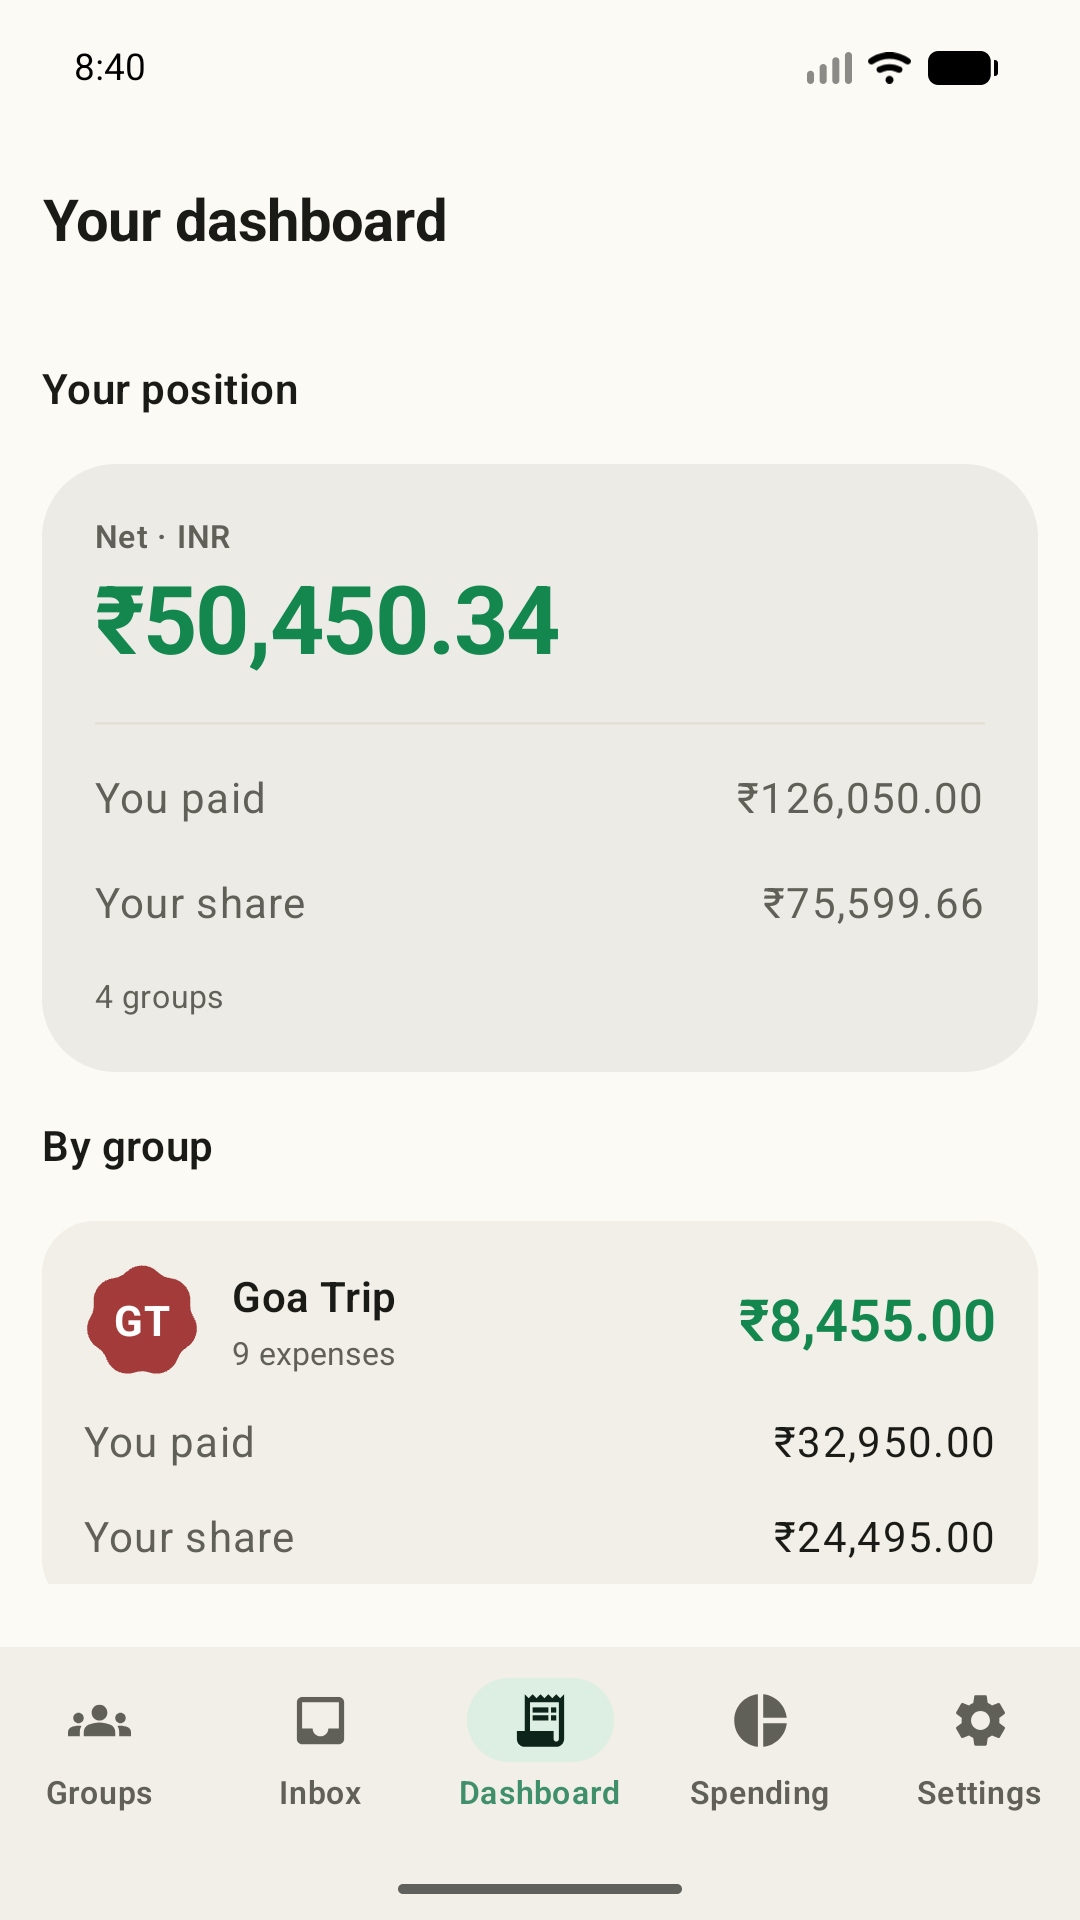
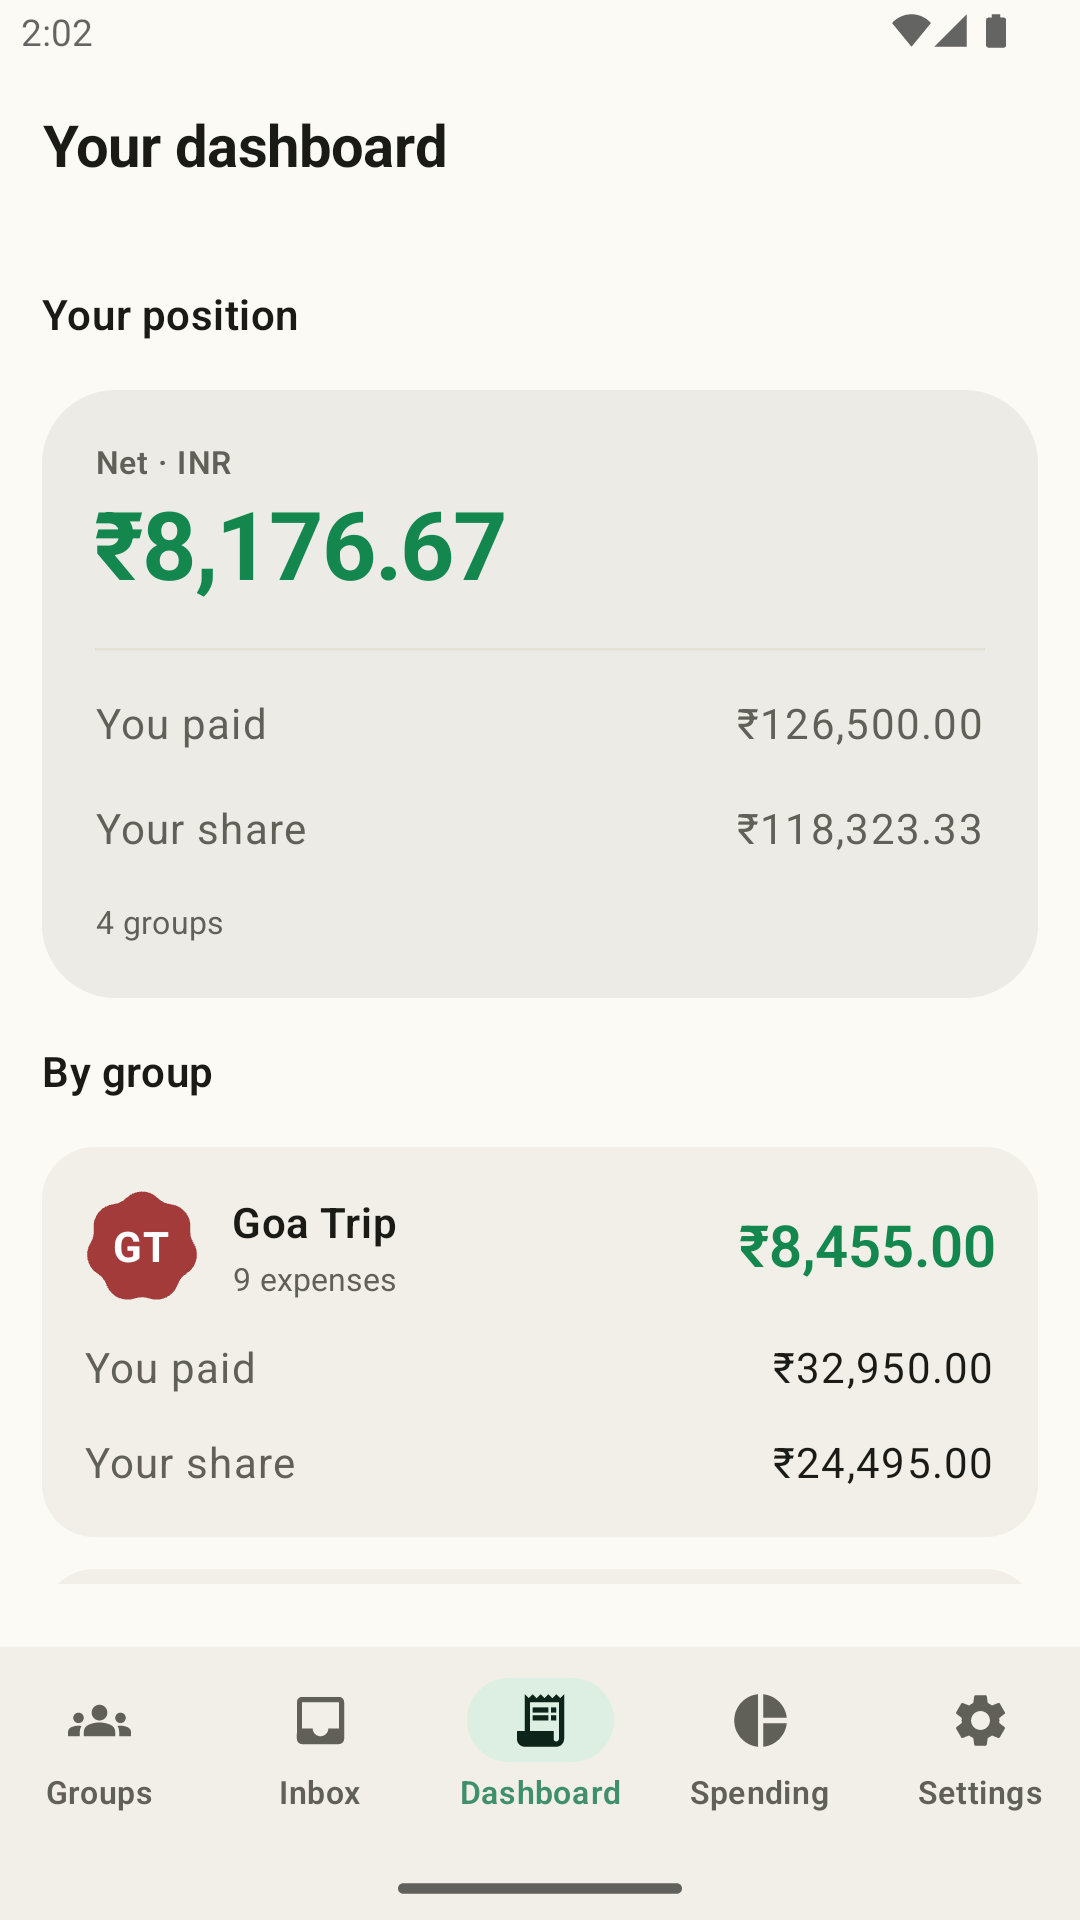
docs(store): fix the rejected listing — 8 phone screenshots and a clearer description
Play rejected the listing for a screenshot that "appears to be corrupted, or is
a single solid color". It was right: tablet/03-groups.png was 99.4% one colour
with a standard deviation of 5.6 — a blank white frame with only a status bar.

Root cause, confirmed by reproducing it: the capture ran before the screen had
rendered. Restarting the app and screenshotting immediately gives a blank frame
that fills in about eight seconds later. Nothing was checking, so it went to
review.

- The blank tablet capture is deleted; three good tablet screenshots remain,
  above Play's minimum of two.
- Phone screenshots recaptured and taken to Play's maximum of eight, in the
  order the app is actually used: groups, expenses, balances, inbox, dashboard,
  spending, bank import, settings. Every one is verified to have rendered
  before being saved, and all are 1080x1920 — the emulator's native 1080x2424
  is taller than Play's 9:16 limit and would itself have been rejected.
- The description now leads with what the app does and names concrete
  features — item-level splitting, editable tax and round-off rows, link and QR
  invites, minimal-transfer settle-up, live claiming — instead of describing
  the app in the abstract. It also states that the on-device database is
  encrypted, which is new and true.

validate_copy now fails any screenshot that is more than 92% a single colour.
Verified both ways: a synthetic white PNG is rejected, and the real set passes.
[…]

diff --git a/tools/store/validate_copy.py b/tools/store/validate_copy.py
@@ -143,6 +143,25 @@ def check(root):
         if re.search(pattern, listing, re.IGNORECASE):
             errors.append(f"listing.md: prohibited claim matching /{pattern}/")
 
+    # A screenshot that is overwhelmingly one colour is a capture taken before the screen rendered,
+    # not a screenshot. Play rejects the listing for it ("appears to be corrupted, or is a single
+    # solid color"), which is how a blank tablet capture reached review — nothing was looking.
+    for shots in sorted((root / "assets").glob("*/")):
+        for shot in sorted(shots.glob("*.png")):
+            try:
+                from PIL import Image
+                from collections import Counter
+            except ImportError:
+                break
+            image = Image.open(shot).convert("RGB").resize((120, 213))
+            data = list(image.getdata())
+            dominant = Counter(data).most_common(1)[0][1] / len(data) * 100
+            if dominant > 92:
+                errors.append(
+                    f"{shot.relative_to(root)} is {dominant:.0f}% a single colour — "
+                    "it was probably captured before the screen rendered"
+                )
+
     for name, phrases in REQUIRED_PHRASES.items():
         if name in missing:
             continue

diff --git a/tools/store/test_validate_copy.py b/tools/store/test_validate_copy.py
@@ -54,7 +54,7 @@ class ValidateCopyTest(unittest.TestCase):
         self.assertFails("'Short description' is 81 chars")
 
     def test_full_description_too_long(self):
-        self.edit("en-US/listing.md", "SCAN AND SPLIT", "y" * 4001)
+        self.edit("en-US/listing.md", "SPLIT A BILL LINE BY LINE", "y" * 4001)
         self.assertFails("'Full description' is")
 
     def test_release_notes_too_long(self):
@@ -62,7 +62,7 @@ class ValidateCopyTest(unittest.TestCase):
         self.assertFails("limit 500")
 
     def test_prohibited_claim(self):
-        self.edit("en-US/listing.md", "SCAN AND SPLIT", "The best expense app, supports all banks")
+        self.edit("en-US/listing.md", "SPLIT A BILL LINE BY LINE", "The best expense app, supports all banks")
         self.assertFails("prohibited claim")
 
     def test_policy_url_must_be_https(self):

diff --git a/store/play/en-US/listing.md b/store/play/en-US/listing.md
@@ -15,39 +15,42 @@ Scan bills, track spending and split shared expenses privately.
 
 ## Full description
 
-Schism turns a receipt, a bank alert or a quick note into a clear shared expense — and keeps the
-detail that explains it.
+Schism turns a bill, a bank alert or a quick note into a shared expense — and keeps the detail that
+explains it, so nobody has to remember who paid for what.
 
-SCAN AND SPLIT
-• Pick a receipt photo and let Schism read the line items on your phone.
-• Check and edit every item, tax line and total before anything is saved.
-• Split by item, equally, or by custom shares.
-• Add expenses by hand or by voice whenever you prefer.
+SPLIT A BILL LINE BY LINE
+• Scan a receipt and Schism reads the items, taxes and total on your phone.
+• Check and correct every line before anything is saved — including tax, service charge and
+  round-off, each editable on its own.
+• Split by item, evenly, by shares, by percentage, or by exact amounts.
+• Or add an expense by hand, or by speaking it.
 
-GROUPS AND BALANCES
-• Create groups, invite people with a link or a QR code, and see who owes whom.
-• Record settle-ups, browse group activity, and open personal and group spending summaries.
-• Hand off a settlement to your own UPI app when you want to pay someone — Schism does not move
-  the money itself.
+GROUPS AND WHO OWES WHOM
+• Create a group for a flat, a trip or a dinner, and invite people with a link or a QR code.
+• Balances settle down to the fewest transfers, so three people don't make six payments.
+• Record a settle-up, browse group activity, and see personal and group spending summaries.
+• Hand a settlement to your own UPI app when you want to pay — Schism does not move the money.
+
+CLAIM TOGETHER, IN REAL TIME
+• Share a scanned bill with the group and let everyone tick what they had.
+• Watch each person's total update as they claim, then finalise it as one expense.
 
 PRIVATE WHERE IT MATTERS
-• Receipt reading runs on your device by default. Nothing is uploaded unless you switch on the
+• Receipt reading runs on your phone by default. Nothing is uploaded unless you switch on the
   optional cloud reader, which tells you where your photo goes before the first scan.
-• Bank message import is optional and switched off on a fresh install. Schism explains the feature
-  before asking for the Android SMS permission, looks only at supported transaction senders, and
-  parses them on your device. Raw messages are not sent to Schism.
-• Settings has separate controls to switch import off, revoke the Android SMS permission, and
-  delete imported message transactions.
-• Only the groups, expenses and splits you choose to share are synced to your Schism account.
-• Voice quick-add uses your device's speech recognition and prefers the offline engine when your
-  phone has one.
+• Bank message import is optional and off on a fresh install. Schism explains it before asking for
+  the Android SMS permission, reads only recognised bank senders, and parses them on your device.
+  Your messages are never sent to Schism.
+• Settings has separate controls to switch import off, revoke the SMS permission, and delete
+  imported transactions.
+• The database on your phone is encrypted.
 • You can delete your Schism account from inside the app.
 
-ON-DEVICE MODELS, DOWNLOADED WHEN YOU ASK
+WORKS OFFLINE
 • The receipt reading model (about 6 MB) downloads the first time you choose to scan, can wait for
-  Wi-Fi, resumes safely, and works offline afterwards.
-• Settings offers a larger optional language model (about 1.5 GB) for smarter receipt and voice
-  parsing. Both are optional and both run entirely on your device.
+  Wi-Fi, and works offline afterwards.
+• Settings offers a larger optional language model (about 1.5 GB) for smarter parsing. Both are
+  optional and both run entirely on your device.
 
 WHAT SCHISM IS NOT
 • It is not a bank, a payment service or an accounting service. It does not connect to bank
@@ -55,7 +58,7 @@ WHAT SCHISM IS NOT
 • Receipt reading and message parsing can be wrong, and only some senders and layouts are
   understood. You review and edit everything before it becomes an expense.
 
-Schism is free to use. There is no subscription and nothing is locked behind a purchase.
+Schism is free. There is no subscription and nothing is locked behind a purchase.
 
 Support, privacy, terms and account deletion pages are linked below and from Settings.
 
